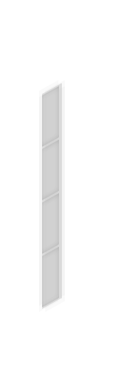
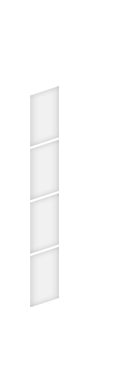
Nova adaptação de HUD... Players com sprites novos

Changed region(s): [[0.3307, 0.2143, 0.4961, 0.7959], [0.2362, 0.2143, 0.3071, 0.7959]]

diff --git a/Assets/02 Versus/Scripts/MovimentPlayer.cs b/Assets/02 Versus/Scripts/MovimentPlayer.cs
@@ -7,12 +7,17 @@ public class MovimentPlayer : MonoBehaviour
 	
 	public string controlVertical = "VerticalP1";
 	public string controlHorizontal = "HorizontalP1";
+	public GameObject giraContorno;
+	public float speedGiro = 500f;
+
 
 	Vector2 speedMagnetic;
 
 	// Update is called once per frame	
 	void Update () 
 	{
+		giraContorno.transform.Rotate (new Vector3(0,0, Time.deltaTime*speedGiro));
+
 		Vector3 newPosition = transform.position;
 
 		if (Input.GetButton (controlHorizontal)) 

diff --git a/Assets/02 Versus/Scripts/GiroContorno.cs b/Assets/02 Versus/Scripts/GiroContorno.cs
@@ -1,0 +1,18 @@
+using UnityEngine;
+using System.Collections;
+
+public class GiroContorno : MonoBehaviour {
+	//public GameObject giraContorno;
+	public float speedGiro = 500f;
+
+	// Use this for initialization
+	void Start () {
+	
+	}
+	
+	// Update is called once per frame
+	void Update () {
+
+		transform.Rotate (new Vector3(0,0, Time.deltaTime*speedGiro));
+	}
+}
